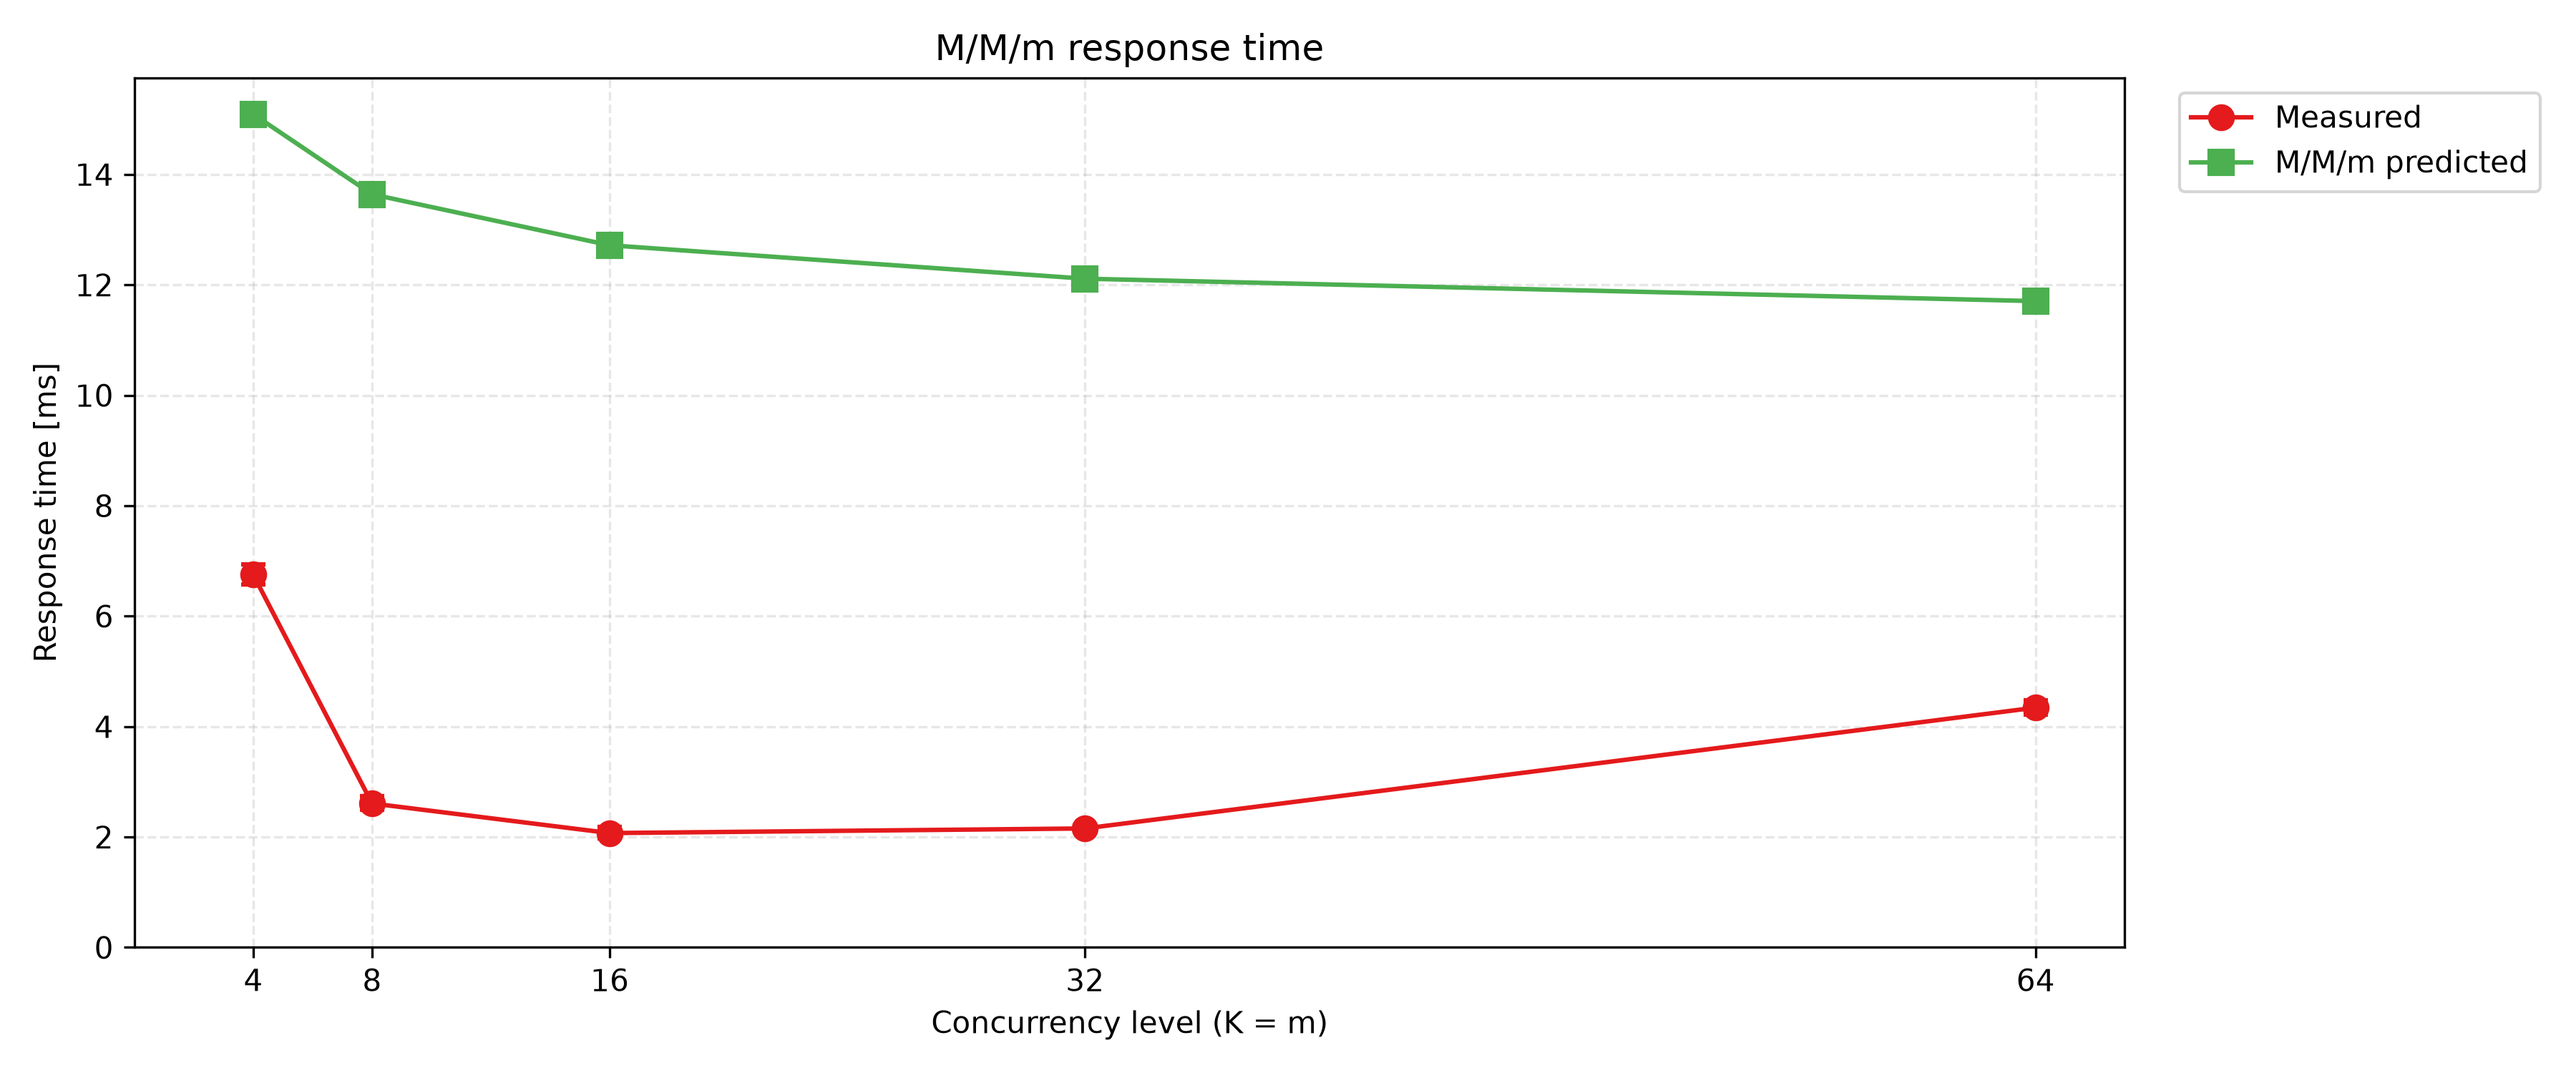
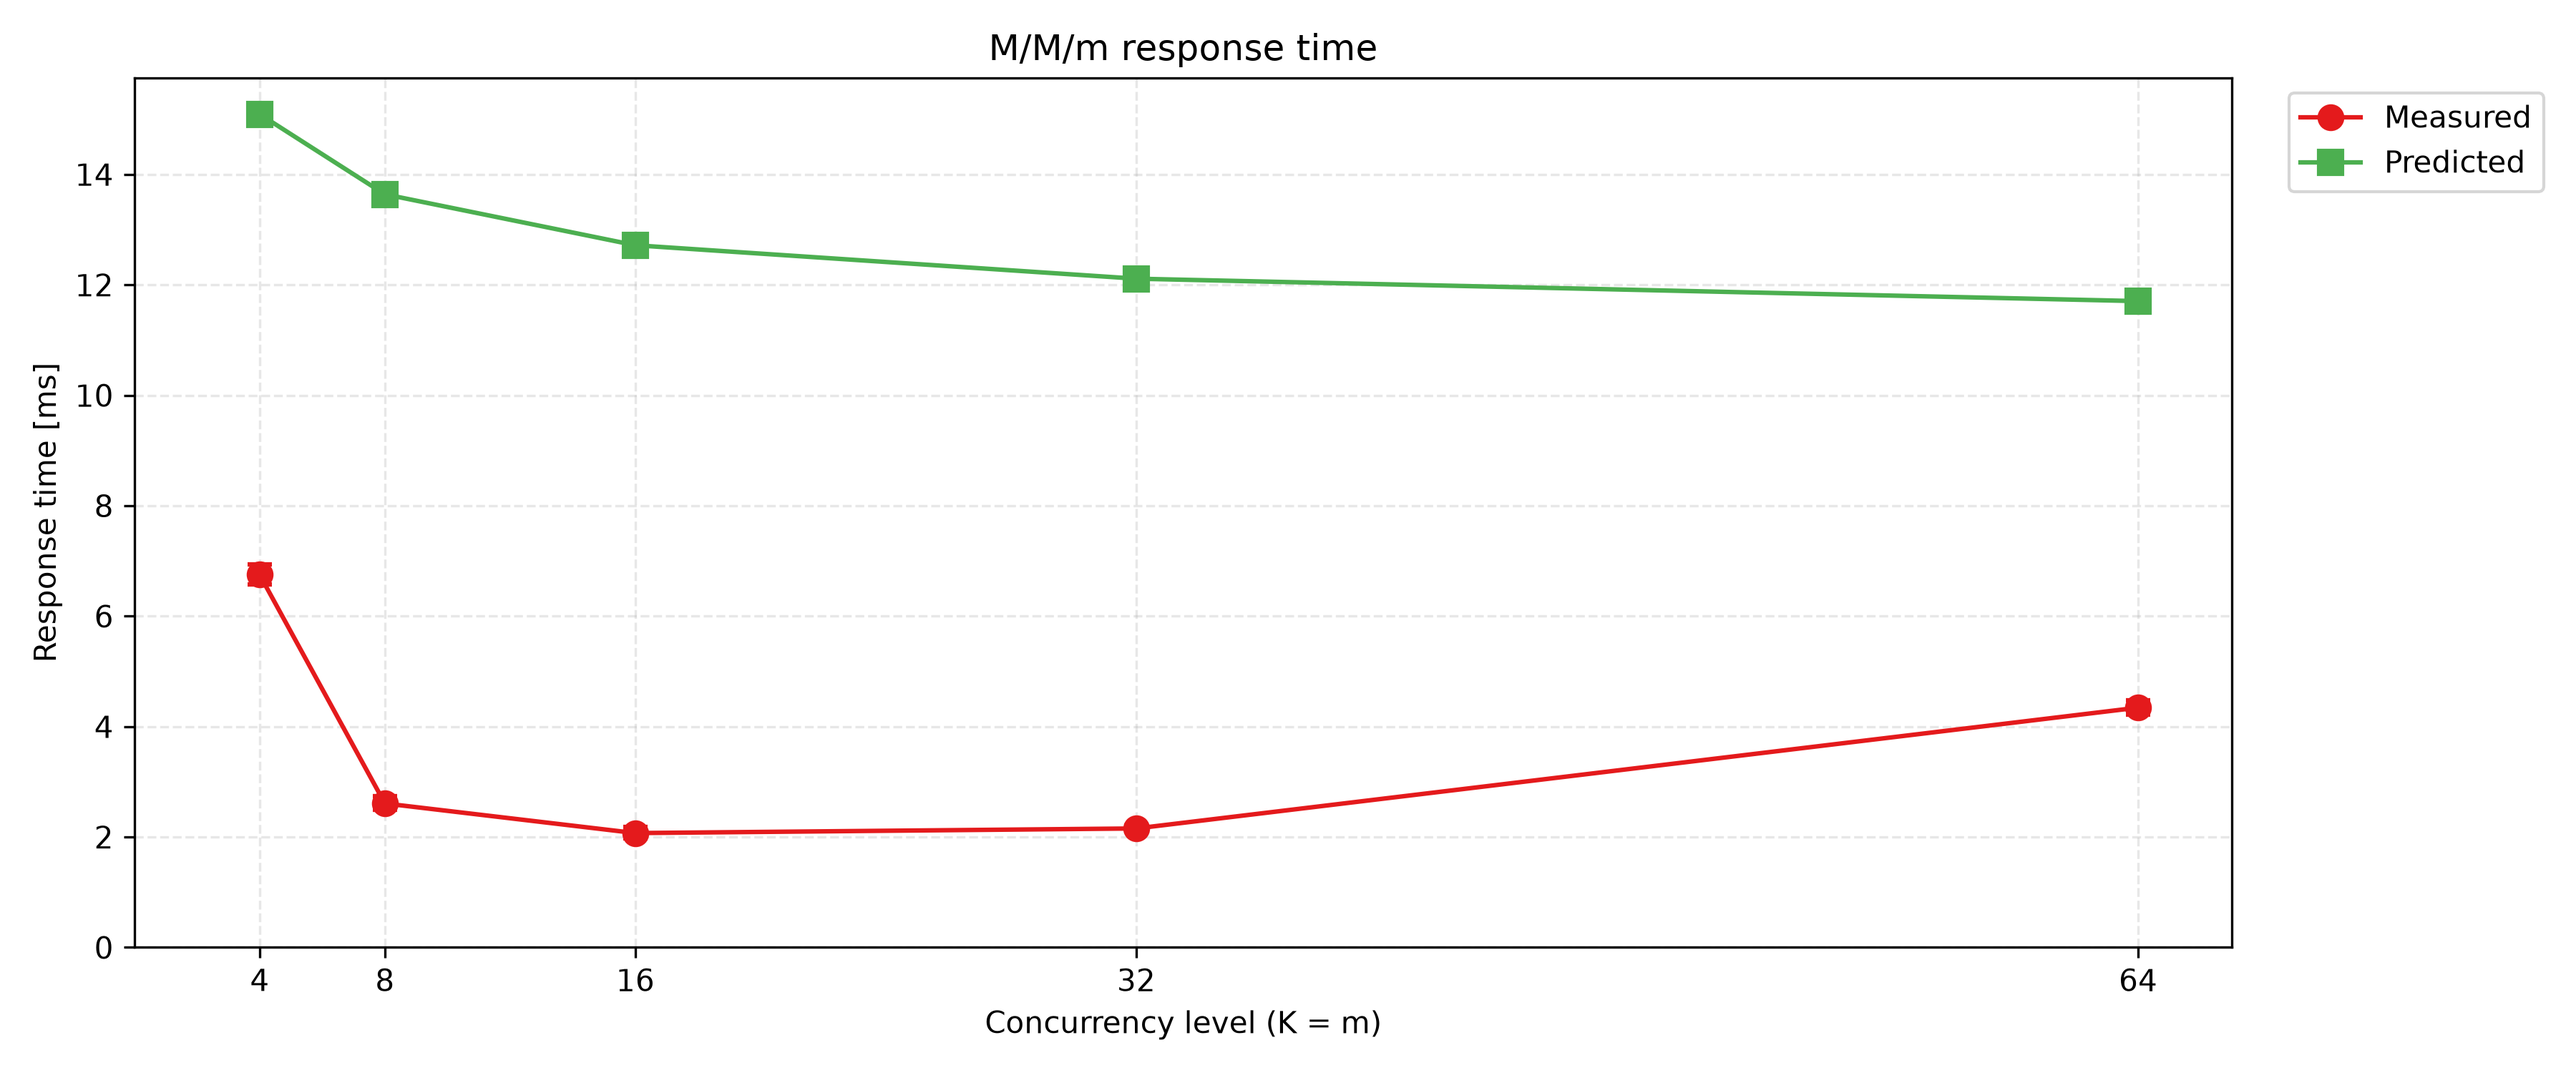
update plot

diff --git a/plot/exp3/mmm-throughput.py b/plot/exp3/mmm-throughput.py
@@ -4,7 +4,7 @@ import os
 import sys
 
 import matplotlib.pyplot as plt  # pyright: ignore[reportMissingImports]
-from matplotlib.ticker import MultipleLocator  # pyright: ignore[reportMissingImports]
+from matplotlib.ticker import FuncFormatter, MultipleLocator  # pyright: ignore[reportMissingImports]
 
 sys.path.insert(0, os.path.join(os.path.dirname(__file__), "..", ".."))
 from plot.config import (
@@ -101,7 +101,7 @@ def nice_step(max_val, target_bins=10):
 
 
 def add_measured(ax, ks, means, ci_lo, ci_hi):
-    ax.plot(ks, means, color=RED, marker="o", label="Measured \u00b1 95% CI", **LINE_STYLE)
+    ax.plot(ks, means, color=RED, marker="o", label="Measured", **LINE_STYLE)
     ax.errorbar(
         ks, means,
         yerr=[[means[i] - ci_lo[i] for i in range(len(ks))],
@@ -111,7 +111,7 @@ def add_measured(ax, ks, means, ci_lo, ci_hi):
 
 
 def add_predicted(ax, ks, mmm_pred):
-    ax.plot(ks, mmm_pred, color=GREEN, marker="s", label="M/M/m predicted", **LINE_STYLE)
+    ax.plot(ks, mmm_pred, color=GREEN, marker="s", label="Predicted", **LINE_STYLE)
 
 
 def add_break_marks(ax_top, ax_bot):
@@ -141,7 +141,7 @@ def format_axes(ax, ks, valid_vals, title="M/M/m throughput"):
     ax.set_xlim(left=0)
     ax.set_ylim(bottom=0)
     ax.yaxis.set_major_locator(MultipleLocator(nice_step(max(valid_vals))))
-    ax.ticklabel_format(axis="y", style="plain", useOffset=False)
+    ax.yaxis.set_major_formatter(FuncFormatter(lambda x, _: f"{x:,.0f}"))
     ax.legend(**legend_pos)
     ax.grid(True, **grid_style)
 
@@ -159,7 +159,7 @@ def plot_single(ks, means, ci_lo, ci_hi, mmm_pred, valid_vals):
 def plot_broken(ks, means, ci_lo, ci_hi, mmm_pred, break_low, break_high, y_max, finite_meas):
     fig, (ax_top, ax_bot) = plt.subplots(
         2, 1, sharex=True,
-        gridspec_kw={"height_ratios": [1, 1], "hspace": 0.25},
+        gridspec_kw={"height_ratios": [1, 1], "hspace": 0.1},
         figsize=(FIGSIZE[0] * 1.4, FIGSIZE[1] * 2),
     )
 
@@ -167,8 +167,8 @@ def plot_broken(ks, means, ci_lo, ci_hi, mmm_pred, break_low, break_high, y_max,
     add_measured(ax_top, ks, means, ci_lo, ci_hi)
     ax_top.set_ylim(break_high, y_max)
     ax_top.yaxis.set_major_locator(MultipleLocator(nice_step(y_max - break_high)))
+    ax_top.yaxis.set_major_formatter(FuncFormatter(lambda x, _: f"{x:,.0f}"))
     ax_top.set_title("M/M/m throughput")
-    ax_top.ticklabel_format(axis="y", style="plain", useOffset=False)
     ax_top.grid(True, **grid_style)
     ax_top.spines["bottom"].set_visible(False)
     ax_top.tick_params(bottom=False)
@@ -180,7 +180,7 @@ def plot_broken(ks, means, ci_lo, ci_hi, mmm_pred, break_low, break_high, y_max,
     valid_bot = [v for v in finite_meas if v <= break_low]
     if valid_bot:
         ax_bot.yaxis.set_major_locator(MultipleLocator(nice_step(max(valid_bot))))
-    ax_bot.ticklabel_format(axis="y", style="plain", useOffset=False)
+    ax_bot.yaxis.set_major_formatter(FuncFormatter(lambda x, _: f"{x:,.0f}"))
     ax_bot.grid(True, **grid_style)
     ax_bot.spines["top"].set_visible(False)
     ax_bot.tick_params(top=False)
@@ -190,7 +190,7 @@ def plot_broken(ks, means, ci_lo, ci_hi, mmm_pred, break_low, break_high, y_max,
 
     add_break_marks(ax_top, ax_bot)
     fig.subplots_adjust(left=0.12, right=0.85, top=0.93, bottom=0.15)
-    fig.text(0.02, 0.5, "Throughput [txns/s]", va="center", rotation="vertical", fontsize=11)
+    fig.text(0.05, 0.5, "Throughput [txns/s]", va="center", rotation="vertical", fontsize=11)
     return fig
 
 

diff --git a/plot/exp3/mmm-responsetime.py b/plot/exp3/mmm-responsetime.py
@@ -4,7 +4,7 @@ import os
 import sys
 
 import matplotlib.pyplot as plt  # pyright: ignore[reportMissingImports]
-from matplotlib.ticker import MultipleLocator  # pyright: ignore[reportMissingImports]
+from matplotlib.ticker import FuncFormatter, MultipleLocator  # pyright: ignore[reportMissingImports]
 
 sys.path.insert(0, os.path.join(os.path.dirname(__file__), "..", ".."))
 from plot.config import (
@@ -132,7 +132,7 @@ def add_measured(ax, ks, rt_meas, rt_lo, rt_hi):
 
 
 def add_predicted(ax, ks, rt_mmm):
-    ax.plot(ks, rt_mmm, color=GREEN, marker="s", label="M/M/m predicted", **LINE_STYLE)
+    ax.plot(ks, rt_mmm, color=GREEN, marker="s", label="Predicted", **LINE_STYLE)
 
 
 def add_break_marks(ax_top, ax_bot):
@@ -181,7 +181,7 @@ def plot_single(ks, rt_meas, rt_lo, rt_hi, rt_mmm, valid_vals):
 def plot_broken(ks, rt_meas, rt_lo, rt_hi, rt_mmm, break_low, break_high, y_max, finite_meas):
     fig, (ax_top, ax_bot) = plt.subplots(
         2, 1, sharex=True,
-        gridspec_kw={"height_ratios": [1, 1], "hspace": 0.25},
+        gridspec_kw={"height_ratios": [1, 1], "hspace": 0.1},
         figsize=(FIGSIZE[0], FIGSIZE[1] * 2),
     )
 
@@ -212,7 +212,7 @@ def plot_broken(ks, rt_meas, rt_lo, rt_hi, rt_mmm, break_low, break_high, y_max,
 
     add_break_marks(ax_top, ax_bot)
     fig.subplots_adjust(left=0.12, right=0.85, top=0.93, bottom=0.15)
-    fig.text(0.02, 0.5, "Response time [ms]", va="center", rotation="vertical", fontsize=11)
+    fig.text(0.05, 0.5, "Response time [ms]", va="center", rotation="vertical", fontsize=11)
     return fig
 
 
